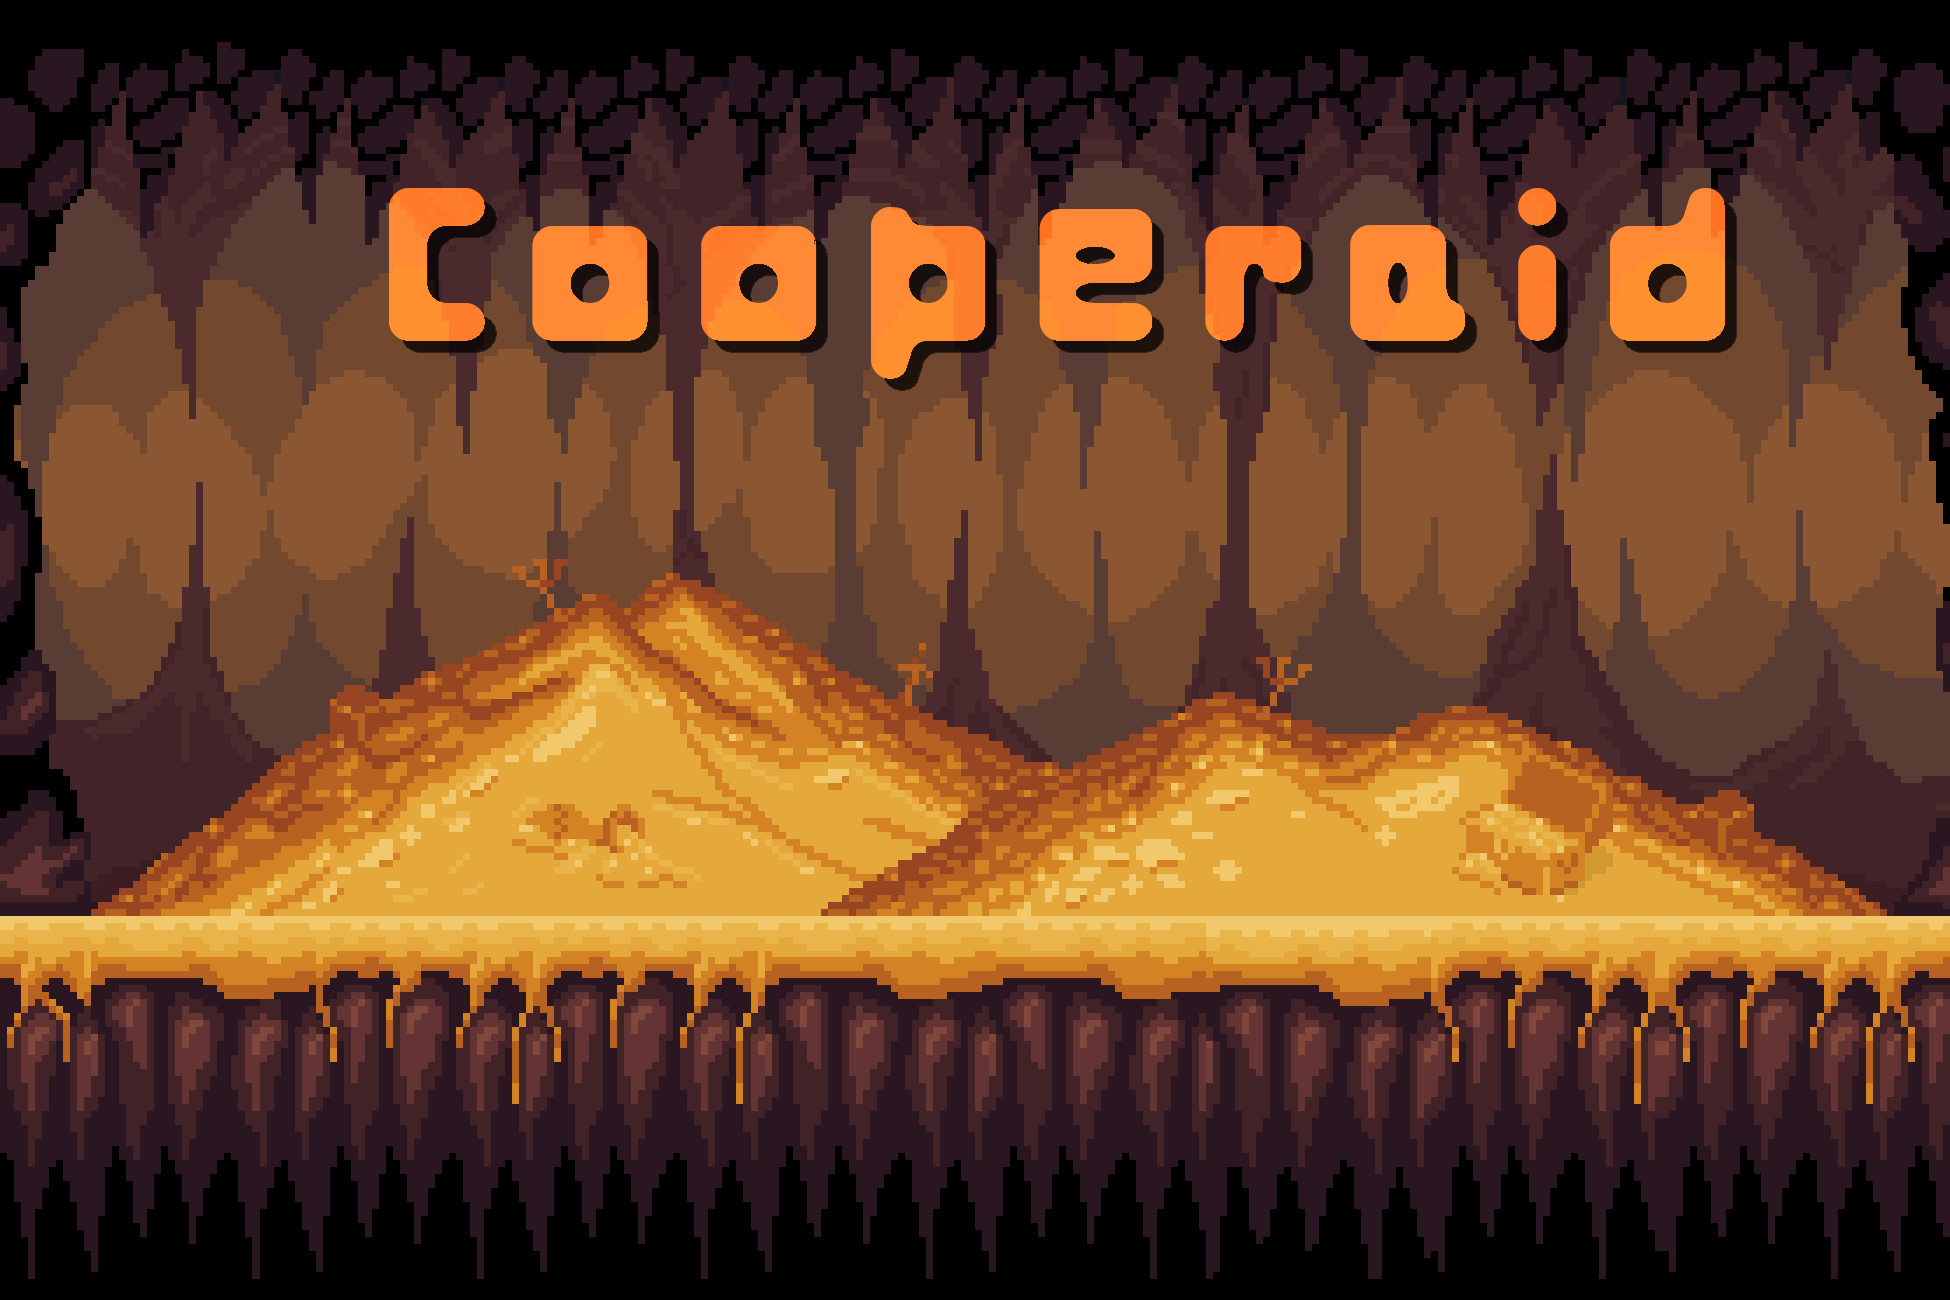
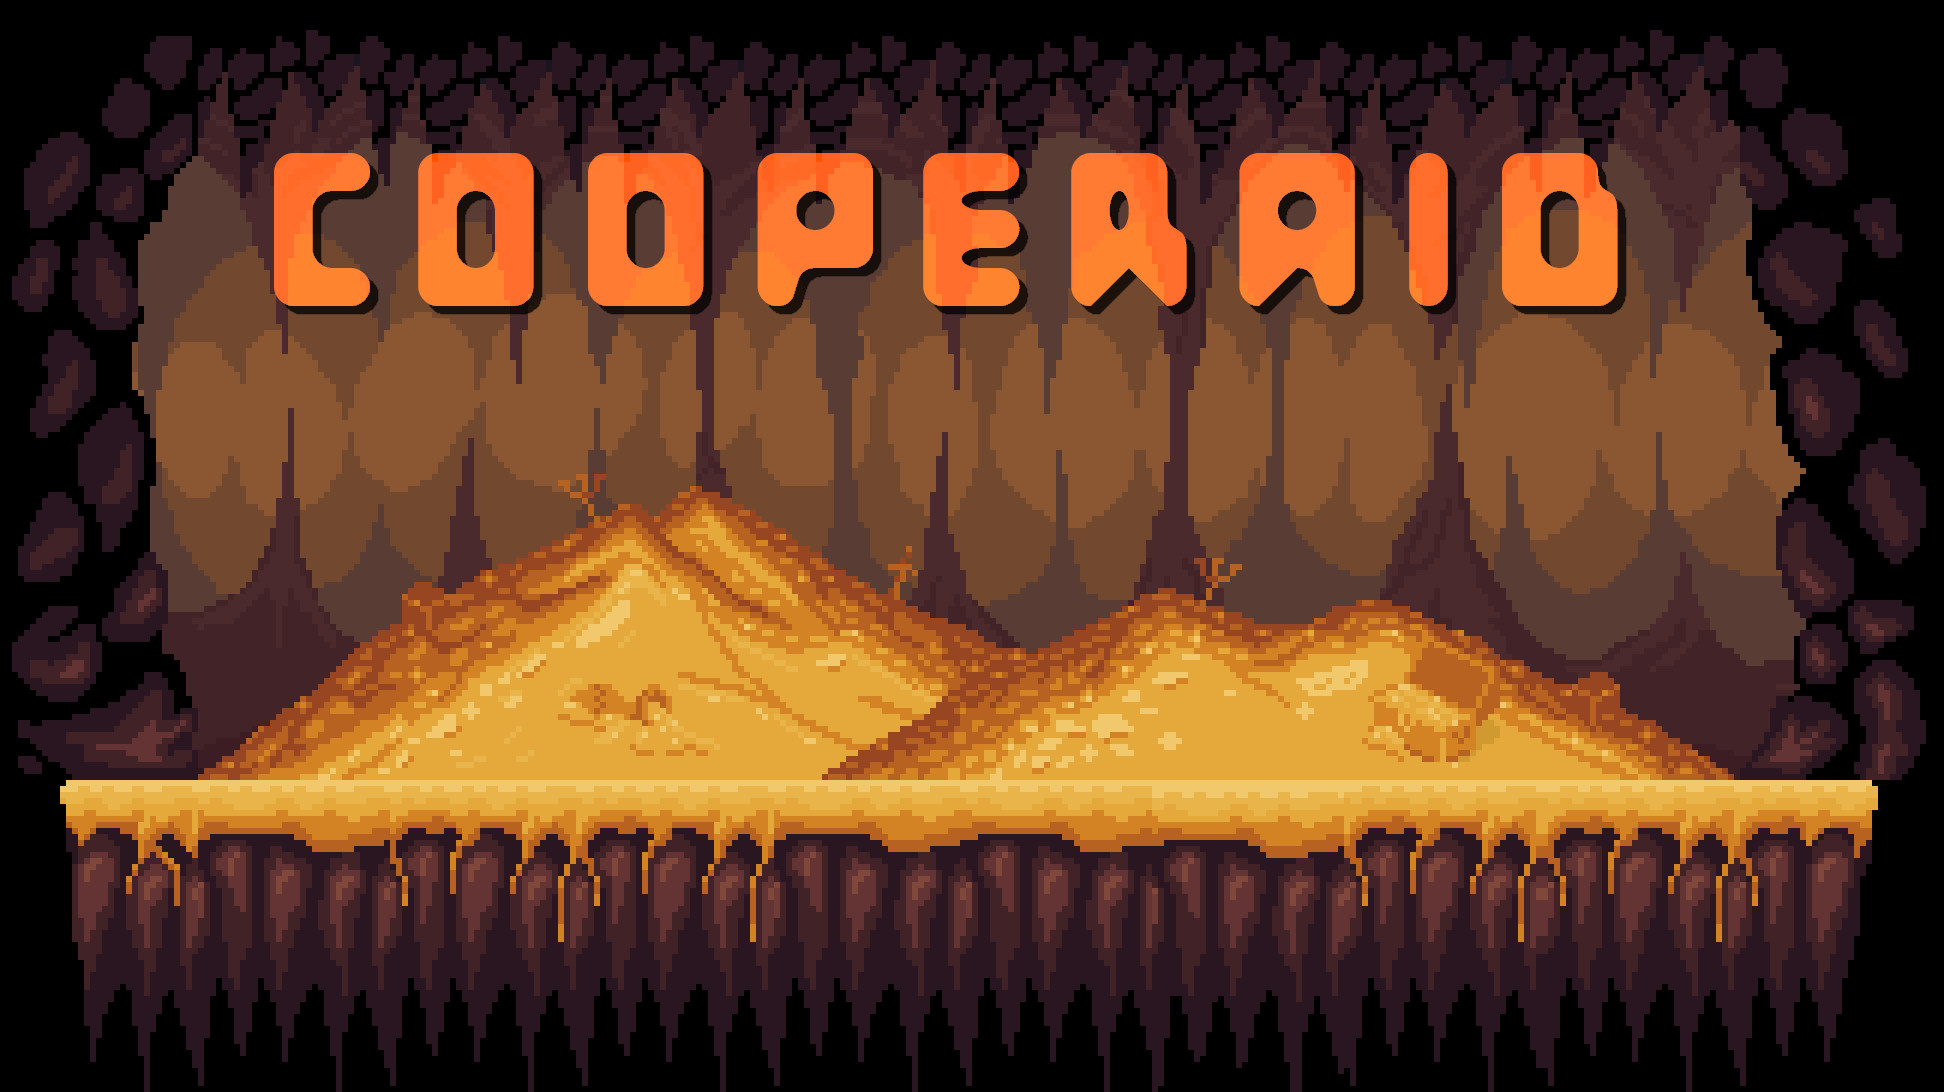
enemies have longer cast times. improved title screen

diff --git a/src/types/enemies/gryphon.ts b/src/types/enemies/gryphon.ts
@@ -28,7 +28,7 @@ class BeakAttack extends Skill {
         name: "Beak Attack",
         energyCost: 4,
         cooldown: 2 * 1000,
-        castTime: 3 * 1000,
+        castTime: 3.5 * 1000,
         targetType: TargetType.TARGET_ENEMY,
         imagePath: null,
         range: SkillRange.MELEE,
@@ -55,7 +55,7 @@ class SkyDive extends Skill {
         castTime: 3 * 1000,
         targetType: TargetType.TARGET_ENEMY,
         imagePath: null,
-        damage: 14,
+        damage: 18,
         range: SkillRange.RANGED,
     })
 
@@ -68,7 +68,7 @@ class SkyDive extends Skill {
     }
 
     castSkill(castBy: Character, targets: Character[]): void {
-        targets.forEach((target) => castBy.dealDamageTo({ amount: this.skillData.damage, target, type: DamageType.PHYSICAL, minAmount: this.skillData.damage }))
+        targets.forEach((target) => castBy.dealDamageTo({ amount: this.skillData.damage, target, type: DamageType.PHYSICAL }))
     }
 }
 
@@ -79,7 +79,7 @@ class Squawk extends Skill {
         name: "Squawk",
         energyCost: 2,
         cooldown: 10 * 1000,
-        castTime: 1 * 1000,
+        castTime: 2 * 1000,
         targetType: TargetType.TARGET_ALL_ENEMIES,
         imagePath: null,
         range: SkillRange.RANGED,
@@ -98,7 +98,7 @@ class TakeFlight extends Skill {
         name: "Take Flight",
         energyCost: 5,
         cooldown: 25 * 1000,
-        castTime: 4.5 * 1000,
+        castTime: 5 * 1000,
         targetType: TargetType.TARGET_SELF,
         imagePath: null,
         range: SkillRange.RANGED,

diff --git a/src/types/enemies/goblin.ts b/src/types/enemies/goblin.ts
@@ -10,7 +10,7 @@ import SkillData from '../skill-data';
 
 export default class Goblin extends Identity {
     public name = "Goblin"
-    public baseStats = CharacterStats.fromObject({ maxHealth: 14, armor: 1 })
+    public baseStats = CharacterStats.fromObject({ maxHealth: 20, armor: 1 })
     public imagePath = "/enemies/goblin.png"
 
     public skills = [
@@ -24,14 +24,14 @@ class GoblinClobber extends Skill {
         name: "Clobber",
         energyCost: 8,
         cooldown: 10 * 1000,
-        castTime: 8 * 1000,
+        castTime: 6 * 1000,
         targetType: TargetType.TARGET_ENEMY,
         imagePath: null,
         range: SkillRange.MELEE,
     })
 
     castSkill(castBy: Character, targets: Character[]): void {
-        targets.forEach((target) => castBy.dealDamageTo({ amount: 10, target, type: DamageType.PHYSICAL }))
+        targets.forEach((target) => castBy.dealDamageTo({ amount: 12, target, type: DamageType.PHYSICAL }))
     }
 }
 
@@ -48,6 +48,6 @@ class GoblinBite extends Skill {
     })
 
     castSkill(castBy: Character, targets: Character[]): void {
-        targets.forEach((target) => castBy.dealDamageTo({ amount: 3, target, type: DamageType.PHYSICAL }))
+        targets.forEach((target) => castBy.dealDamageTo({ amount: 4, target, type: DamageType.PHYSICAL }))
     }
 }

diff --git a/src/types/enemies/halbadier.ts b/src/types/enemies/halbadier.ts
@@ -28,7 +28,7 @@ class Parry extends Skill {
         name: "Parry",
         energyCost: 3,
         cooldown: 8 * 1000,
-        castTime: 1 * 1000,
+        castTime: 1.5 * 1000,
         targetType: TargetType.TARGET_SELF,
         imagePath: null,
         range: SkillRange.MELEE,
@@ -44,7 +44,7 @@ class Poke extends Skill {
         name: "Poke",
         energyCost: 2,
         cooldown: 0 * 1000,
-        castTime: 2 * 1000,
+        castTime: 3 * 1000,
         targetType: TargetType.TARGET_ENEMY,
         imagePath: null,
         range: SkillRange.MELEE,
@@ -60,7 +60,7 @@ class OverheadSlash extends Skill {
         name: "Overhead Slash",
         energyCost: 3,
         cooldown: 12 * 1000,
-        castTime: 4 * 1000,
+        castTime: 5 * 1000,
         targetType: TargetType.TARGET_ENEMY,
         imagePath: null,
         range: SkillRange.MELEE,

diff --git a/src/components/setup/TitleScreen.vue b/src/components/setup/TitleScreen.vue
@@ -9,7 +9,9 @@ function toLobby() {
 <template>
   <div class="root-div">
     <div class="title-screen-buttons">
-      <button class="btn btn-primary btn-lg btn-block" @click="toLobby">PLAY</button>
+      <div class="button-widths">
+        <button class="btn btn-primary btn-lg btn-block" @click="toLobby">PLAY</button>
+      </div>
     </div>
   </div>
 </template>
@@ -21,11 +23,18 @@ function toLobby() {
 
 .title-screen-buttons {
   position: absolute;
-  left: 50%;
-  top: 50%;
-  width: 15vw;
+  display: flex;
+  align-items: center;
+  justify-content: center;
+  top: 60%;
+  width: 100%;
   height: 10vh;
 }
+
+.button-widths {
+  width: 15vw;
+}
+
 
 .root-div {
   width: 100vw;

diff --git a/src/components/Game.vue b/src/components/Game.vue
@@ -29,7 +29,7 @@ Game.onStateChanged(() => state.value = Game.state)
 <template>
   <section style="width: 100%; height: 100%;">
     <TitleScreen v-if="state == GameState.TITLESCREEN"></TitleScreen>
-    <GameoverScreen v-if="state == GameState.GAME_OVER"></GameoverScreen>
+    <GameoverScreen v-else-if="state == GameState.GAME_OVER"></GameoverScreen>
     <Battlefield v-else-if="state == GameState.IN_COMBAT"></Battlefield>
     <Shop v-else-if="state == GameState.IN_SHOP"></Shop>
     <Lobby v-else-if="state == GameState.IN_LOBBY"></Lobby>

diff --git a/src/types/enemies/bandit.ts b/src/types/enemies/bandit.ts
@@ -38,7 +38,7 @@ class GangUp extends Skill {
         if (!battle) {
             damage = 4
         } else {
-            damage = battle.combatants.filter((c) => !c.isEnemyTo(castBy)).length * 3
+            damage = battle.combatants.filter((c) => !c.dead && !c.isEnemyTo(castBy)).length * 3
         }
 
         targets.forEach((target) => castBy.dealDamageTo({ amount: damage, target, type: DamageType.PHYSICAL }))

diff --git a/src/types/enemies/archer.ts b/src/types/enemies/archer.ts
@@ -57,7 +57,7 @@ class Assasinate extends Skill {
         name: "Assasinate",
         energyCost: 6,
         cooldown: 12 * 1000,
-        castTime: 4 * 1000,
+        castTime: 6 * 1000,
         targetType: TargetType.TARGET_ENEMY,
         aiTargetting: AiTargetting.RANDOM,
         imagePath: null,
